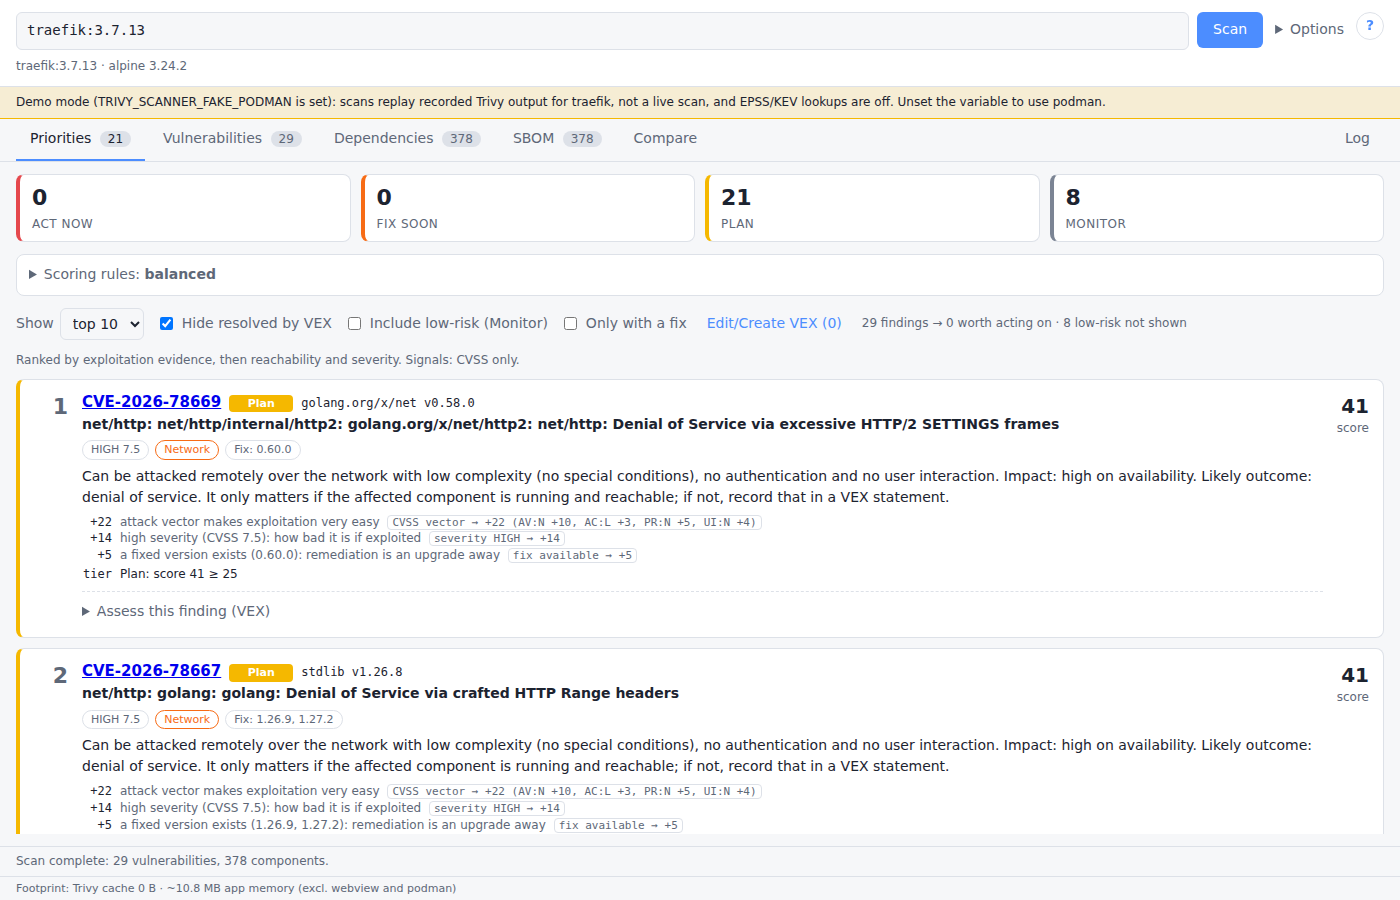
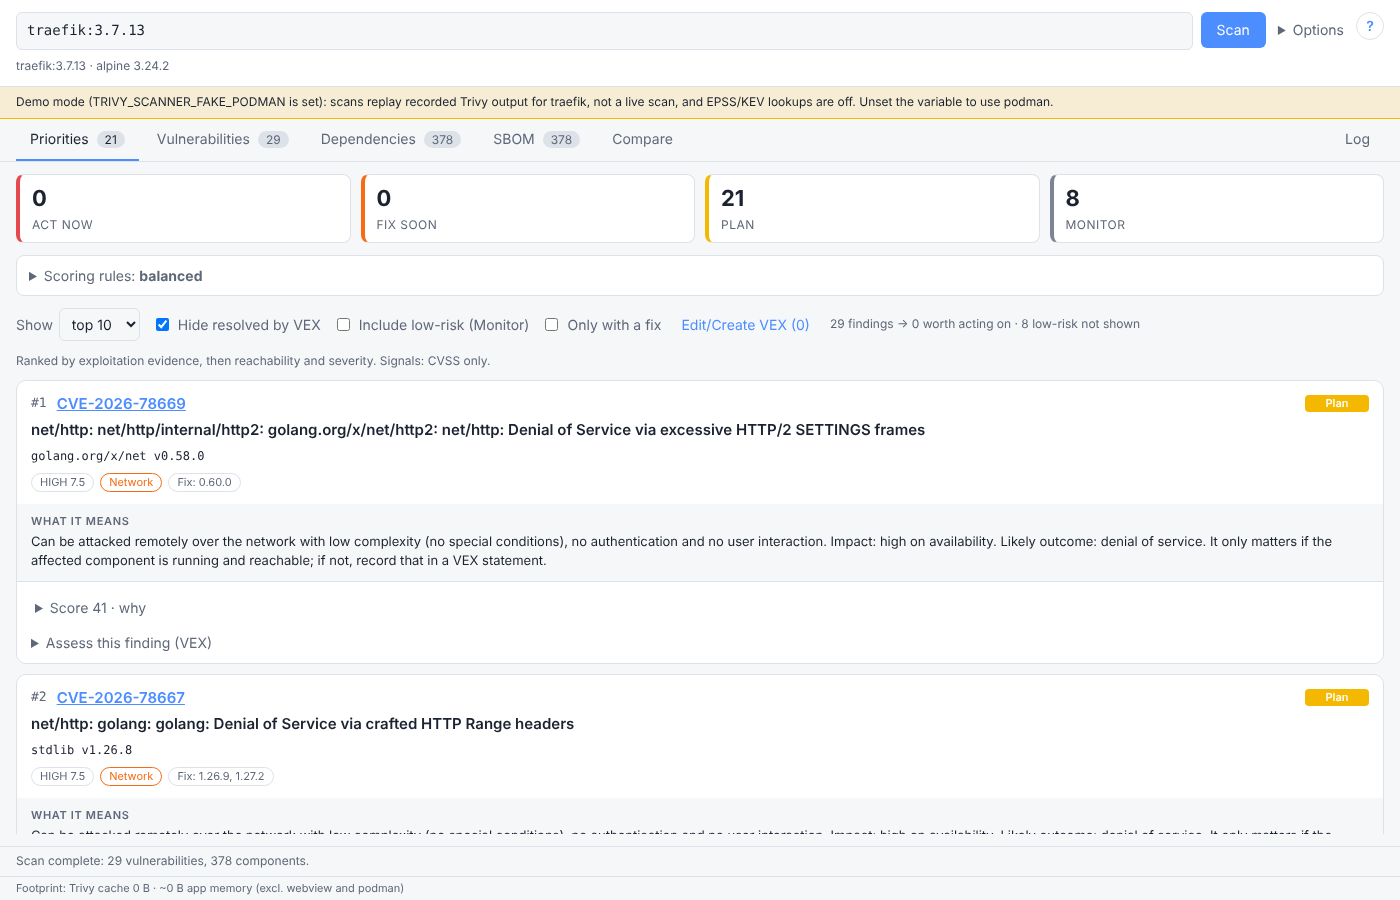
Redesign priority cards into zoned layout
Each finding is now a card with identity (rank, CVE, tier), facts (title,
component, chips), a plain-language "What it means" strip, and a footer
holding the score breakdown and VEX assessment behind collapsible rows.
The score moves into the footer summary; the tier badge stays top right.

Claude-Session: https://claude.ai/code/session_01SeXCVMCPSysq5Mch15Hrs5

diff --git a/frontend/src/components/PrioritiesPanel.vue b/frontend/src/components/PrioritiesPanel.vue
@@ -92,17 +92,17 @@ defineExpose({ count: computed(() => pool.value.length) });
       <div class="kv">{{ signals }}</div>
       <div v-if="before > 0" class="pad" :style="{ height: before - GAP + 'px' }"></div>
       <div v-for="{ item: v, index } in visible" :key="cardKey(v)" v-measure="cardKey(v)" class="pcard" :style="tierStyle(v.tier)">
-        <div class="rank">{{ index + 1 }}</div>
-        <div class="pbody">
-          <div class="phead">
-            <a v-if="detailUrl(v)" class="id" :href="detailUrl(v)" title="Open CVE details" @click.prevent="openUrl(detailUrl(v))">{{
-              v.id
-            }}</a>
-            <span v-else class="id">{{ v.id }}</span>
-            <span class="sev tier" :style="tierStyle(v.tier)" :title="v.tierWhy">{{ v.tier }}</span>
-            <span class="mono">{{ v.package }} {{ v.installed }}</span>
-          </div>
+        <div class="ptop">
+          <span class="rank">#{{ index + 1 }}</span>
+          <a v-if="detailUrl(v)" class="id" :href="detailUrl(v)" title="Open CVE details" @click.prevent="openUrl(detailUrl(v))">{{
+            v.id
+          }}</a>
+          <span v-else class="id">{{ v.id }}</span>
+          <span class="sev tier" :style="tierStyle(v.tier)" :title="v.tierWhy">{{ v.tier }}</span>
+        </div>
+        <div class="pmain">
           <div v-if="v.title" class="ptitle">{{ v.title }}</div>
+          <div class="mono">{{ v.package }} {{ v.installed }}</div>
           <div class="chips">
             <Chip title="CVSS severity">{{ v.severity }}{{ v.score ? ` ${v.score.toFixed(1)}` : "" }}</Chip>
             <Chip v-if="v.kev" kind="hot" :title="`Added to CISA KEV on ${v.kevAdded}; due ${v.kevDue}. ${v.kevAction}`"
@@ -123,23 +123,27 @@ defineExpose({ count: computed(() => pool.value.length) });
               >VEX: {{ STATUS_LABEL[vex.get(v.key).status] }}{{ isExpired(vex.get(v.key)) ? " · expired" : "" }}</Chip
             >
           </div>
-          <p class="attack">{{ v.attack }}</p>
-          <ul class="why">
-            <li v-for="(r, j) in v.reasons" :key="j">
-              <span :class="['pts', { pos: r.points > 0 }]">{{ r.points > 0 ? "+" : "" }}{{ r.points }}</span>
-              <span
-                >{{ r.text }} <code class="rule" title="The rule that fired, with the current thresholds">{{ r.rule }}</code></span
-              >
-            </li>
-            <li class="tierwhy">
-              <span class="pts">tier</span><span>{{ v.tierWhy }}</span>
-            </li>
-          </ul>
-          <VexBox :v="v" />
         </div>
-        <div class="score">
-          <b>{{ v.priority }}</b
-          >score
+        <div class="pmeans">
+          <small>What it means</small>
+          <p class="attack">{{ v.attack }}</p>
+        </div>
+        <div class="pfoot">
+          <details class="scorebox">
+            <summary>Score {{ v.priority }} · why</summary>
+            <ul class="why">
+              <li v-for="(r, j) in v.reasons" :key="j">
+                <span :class="['pts', { pos: r.points > 0 }]">{{ r.points > 0 ? "+" : "" }}{{ r.points }}</span>
+                <span
+                  >{{ r.text }} <code class="rule" title="The rule that fired, with the current thresholds">{{ r.rule }}</code></span
+                >
+              </li>
+              <li class="tierwhy">
+                <span class="pts">tier</span><span>{{ v.tierWhy }}</span>
+              </li>
+            </ul>
+          </details>
+          <VexBox :v="v" />
         </div>
       </div>
       <div v-if="after > 0" class="pad" :style="{ height: after - GAP + 'px' }"></div>

diff --git a/frontend/src/style.css b/frontend/src/style.css
@@ -478,23 +478,72 @@ textarea {
 .pcard {
   background: var(--panel);
   border: 1px solid var(--line);
-  border-left: 4px solid var(--c, var(--line));
-  border-radius: 8px;
-  padding: 12px 14px;
+  border-radius: 10px;
   display: flex;
-  gap: 14px;
+  flex-direction: column;
   flex: none;
+  overflow: hidden;
+}
+.ptop {
+  display: flex;
+  align-items: center;
+  gap: 10px;
+  padding: 12px 14px 0;
+}
+.ptop .sev.tier {
+  margin-left: auto;
 }
 .rank {
-  font-size: 22px;
-  font-weight: 700;
+  font-size: 13px;
+  font-family: ui-monospace, monospace;
   color: var(--mute);
-  min-width: 34px;
-  text-align: right;
 }
-.pbody {
-  flex: 1;
+.ptop .id {
+  font-weight: 600;
+  font-size: 15px;
+  color: var(--accent);
+}
+.pmain {
+  display: flex;
+  flex-direction: column;
+  gap: 8px;
+  padding: 6px 14px 12px;
   min-width: 0;
+}
+.pmain .ptitle {
+  margin: 0;
+  font-size: 15px;
+  line-height: 1.35;
+}
+.pmain .chips {
+  margin: 0;
+}
+.pmeans {
+  background: var(--bg);
+  padding: 10px 14px;
+}
+.pmeans small {
+  display: block;
+  color: var(--mute);
+  font-size: 11px;
+  font-weight: 600;
+  letter-spacing: 0.06em;
+  text-transform: uppercase;
+}
+.pmeans .attack {
+  margin: 2px 0 0;
+  font-size: 13px;
+}
+.pfoot {
+  border-top: 1px solid var(--line);
+  padding: 8px 14px;
+  display: flex;
+  flex-direction: column;
+  gap: 6px;
+}
+.pfoot summary {
+  cursor: pointer;
+  color: var(--mute);
 }
 .phead {
   display: flex;
@@ -538,7 +587,7 @@ textarea {
   line-height: 1.5;
 }
 .why {
-  margin: 6px 0 0;
+  margin: 8px 0 4px;
   padding-left: 0;
   list-style: none;
   font-size: 12px;
@@ -556,24 +605,11 @@ textarea {
 .why .pos {
   color: var(--text);
 }
-.score {
-  margin-left: auto;
-  text-align: right;
-  color: var(--mute);
-  font-size: 12px;
-}
-.score b {
-  display: block;
-  font-size: 20px;
-  color: var(--text);
-}
 details.vexbox {
-  margin-top: 8px;
-  border-top: 1px dashed var(--line);
-  padding-top: 6px;
+  margin-top: 0;
 }
 details.vexbox summary {
-  padding: 4px 0;
+  padding: 2px 0;
 }
 .vexform {
   display: flex;
